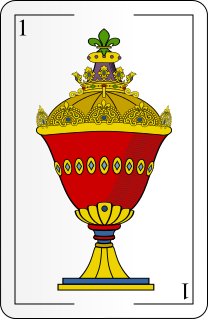
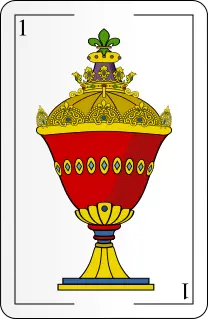
imagenes a webp

Changed region(s): [[0.1731, 0.0846, 0.8365, 0.8182], [0.2885, 0.79, 0.75, 0.931], [0.3173, 0.5925, 0.3462, 0.6207]]

diff --git a/src/services/cards.ts b/src/services/cards.ts
@@ -2,62 +2,62 @@ import { Card } from '../types'
 
 export const cards: Card[] = [
   // Espadas
-  { id: 1, number: 'As', url: 'as-de-espadas.png', played: false, suit: 'espadas' },
-  { id: 2, number: 'Dos', url: '2-de-espadas.png', played: false, suit: 'espadas' },
-  { id: 3, number: 'Tres', url: '3-de-espadas.png', played: false, suit: 'espadas' },
-  { id: 4, number: 'Cuatro', url: '4-de-espadas.png', played: false, suit: 'espadas' },
-  { id: 5, number: 'Cinco', url: '5-de-espadas.png', played: false, suit: 'espadas' },
-  { id: 6, number: 'Seis', url: '6-de-espadas.png', played: false, suit: 'espadas' },
-  { id: 7, number: 'Siete', url: '7-de-espadas.png', played: false, suit: 'espadas' },
-  { id: 8, number: 'Ocho', url: '8-de-espadas.png', played: false, suit: 'espadas' },
-  { id: 9, number: 'Nueve', url: '9-de-espadas.png', played: false, suit: 'espadas' },
-  { id: 10, number: 'Diez', url: '10-de-espadas.png', played: false, suit: 'espadas' },
-  // { id: 11, number: 'Caballo', url: '11-de-espadas.png', played: false },
-  { id: 12, number: 'Rey', url: '12-de-espadas.png', played: false, suit: 'espadas' },
+  { id: 1, number: 'As', url: 'as-de-espadas.webp', played: false, suit: 'espadas' },
+  { id: 2, number: 'Dos', url: '2-de-espadas.webp', played: false, suit: 'espadas' },
+  { id: 3, number: 'Tres', url: '3-de-espadas.webp', played: false, suit: 'espadas' },
+  { id: 4, number: 'Cuatro', url: '4-de-espadas.webp', played: false, suit: 'espadas' },
+  { id: 5, number: 'Cinco', url: '5-de-espadas.webp', played: false, suit: 'espadas' },
+  { id: 6, number: 'Seis', url: '6-de-espadas.webp', played: false, suit: 'espadas' },
+  { id: 7, number: 'Siete', url: '7-de-espadas.webp', played: false, suit: 'espadas' },
+  { id: 8, number: 'Ocho', url: '8-de-espadas.webp', played: false, suit: 'espadas' },
+  { id: 9, number: 'Nueve', url: '9-de-espadas.webp', played: false, suit: 'espadas' },
+  { id: 10, number: 'Diez', url: '10-de-espadas.webp', played: false, suit: 'espadas' },
+  // { id: 11, number: 'Caballo', url: '11-de-espadas.webp', played: false },
+  { id: 12, number: 'Rey', url: '12-de-espadas.webp', played: false, suit: 'espadas' },
 
   // Basto
-  { id: 13, number: 'As', url: 'as-de-basto.png', played: false, suit: 'bastos' },
-  { id: 14, number: 'Dos', url: '2-de-basto.png', played: false, suit: 'bastos' },
-  { id: 15, number: 'Tres', url: '3-de-basto.png', played: false, suit: 'bastos' },
-  { id: 16, number: 'Cuatro', url: '4-de-basto.png', played: false, suit: 'bastos' },
-  { id: 17, number: 'Cinco', url: '5-de-basto.png', played: false, suit: 'bastos' },
-  { id: 18, number: 'Seis', url: '6-de-basto.png', played: false, suit: 'bastos' },
-  { id: 19, number: 'Siete', url: '7-de-basto.png', played: false, suit: 'bastos' },
-  { id: 20, number: 'Ocho', url: '8-de-basto.png', played: false, suit: 'bastos' },
-  { id: 21, number: 'Nueve', url: '9-de-basto.png', played: false, suit: 'bastos' },
-  { id: 22, number: 'Diez', url: '10-de-basto.png', played: false, suit: 'bastos' },
-  // { id: 23, number: 'Caballo', url: '11-de-basto.png', played: false },
-  { id: 24, number: 'Rey', url: '12-de-basto.png', played: false, suit: 'bastos' },
+  { id: 13, number: 'As', url: 'as-de-basto.webp', played: false, suit: 'bastos' },
+  { id: 14, number: 'Dos', url: '2-de-basto.webp', played: false, suit: 'bastos' },
+  { id: 15, number: 'Tres', url: '3-de-basto.webp', played: false, suit: 'bastos' },
+  { id: 16, number: 'Cuatro', url: '4-de-basto.webp', played: false, suit: 'bastos' },
+  { id: 17, number: 'Cinco', url: '5-de-basto.webp', played: false, suit: 'bastos' },
+  { id: 18, number: 'Seis', url: '6-de-basto.webp', played: false, suit: 'bastos' },
+  { id: 19, number: 'Siete', url: '7-de-basto.webp', played: false, suit: 'bastos' },
+  { id: 20, number: 'Ocho', url: '8-de-basto.webp', played: false, suit: 'bastos' },
+  { id: 21, number: 'Nueve', url: '9-de-basto.webp', played: false, suit: 'bastos' },
+  { id: 22, number: 'Diez', url: '10-de-basto.webp', played: false, suit: 'bastos' },
+  // { id: 23, number: 'Caballo', url: '11-de-basto.webp', played: false },
+  { id: 24, number: 'Rey', url: '12-de-basto.webp', played: false, suit: 'bastos' },
 
   // Oro
-  { id: 25, number: 'As', url: 'as-de-oro.png', played: false, suit: 'oros' },
-  { id: 26, number: 'Dos', url: '2-de-oro.png', played: false, suit: 'oros' },
-  { id: 27, number: 'Tres', url: '3-de-oro.png', played: false, suit: 'oros' },
-  { id: 28, number: 'Cuatro', url: '4-de-oro.png', played: false, suit: 'oros' },
-  { id: 29, number: 'Cinco', url: '5-de-oro.png', played: false, suit: 'oros' },
-  { id: 30, number: 'Seis', url: '6-de-oro.png', played: false, suit: 'oros' },
-  { id: 31, number: 'Siete', url: '7-de-oro.png', played: false, suit: 'oros' },
-  { id: 32, number: 'Ocho', url: '8-de-oro.png', played: false, suit: 'oros' },
-  { id: 33, number: 'Nueve', url: '9-de-oro.png', played: false, suit: 'oros' },
-  { id: 34, number: 'Diez', url: '10-de-oro.png', played: false, suit: 'oros' },
-  // { id: 35, number: 'Caballo', url: '11-de-oro.png', played: false },
-  { id: 36, number: 'Rey', url: '12-de-oro.png', played: false, suit: 'oros' },
+  { id: 25, number: 'As', url: 'as-de-oro.webp', played: false, suit: 'oros' },
+  { id: 26, number: 'Dos', url: '2-de-oro.webp', played: false, suit: 'oros' },
+  { id: 27, number: 'Tres', url: '3-de-oro.webp', played: false, suit: 'oros' },
+  { id: 28, number: 'Cuatro', url: '4-de-oro.webp', played: false, suit: 'oros' },
+  { id: 29, number: 'Cinco', url: '5-de-oro.webp', played: false, suit: 'oros' },
+  { id: 30, number: 'Seis', url: '6-de-oro.webp', played: false, suit: 'oros' },
+  { id: 31, number: 'Siete', url: '7-de-oro.webp', played: false, suit: 'oros' },
+  { id: 32, number: 'Ocho', url: '8-de-oro.webp', played: false, suit: 'oros' },
+  { id: 33, number: 'Nueve', url: '9-de-oro.webp', played: false, suit: 'oros' },
+  { id: 34, number: 'Diez', url: '10-de-oro.webp', played: false, suit: 'oros' },
+  // { id: 35, number: 'Caballo', url: '11-de-oro.webp', played: false },
+  { id: 36, number: 'Rey', url: '12-de-oro.webp', played: false, suit: 'oros' },
 
   // Copas
-  { id: 37, number: 'As', url: 'as-de-copas.png', played: false, suit: 'copas' },
-  { id: 38, number: 'Dos', url: '2-de-copas.png', played: false, suit: 'copas' },
-  { id: 39, number: 'Tres', url: '3-de-copas.png', played: false, suit: 'copas' },
-  { id: 40, number: 'Cuatro', url: '4-de-copas.png', played: false, suit: 'copas' },
-  { id: 41, number: 'Cinco', url: '5-de-copas.png', played: false, suit: 'copas' },
-  { id: 42, number: 'Seis', url: '6-de-copas.png', played: false, suit: 'copas' },
-  { id: 43, number: 'Siete', url: '7-de-copas.png', played: false, suit: 'copas' },
-  { id: 44, number: 'Ocho', url: '8-de-copas.png', played: false, suit: 'copas' },
-  { id: 45, number: 'Nueve', url: '9-de-copas.png', played: false, suit: 'copas' },
-  { id: 46, number: 'Diez', url: '10-de-copas.png', played: false, suit: 'copas' },
-  // { id: 47, number: 'Caballo', url: '11-de-copas.png', played: false },
-  { id: 48, number: 'Rey', url: '12-de-copas.png', played: false, suit: 'copas' }
+  { id: 37, number: 'As', url: 'as-de-copas.webp', played: false, suit: 'copas' },
+  { id: 38, number: 'Dos', url: '2-de-copas.webp', played: false, suit: 'copas' },
+  { id: 39, number: 'Tres', url: '3-de-copas.webp', played: false, suit: 'copas' },
+  { id: 40, number: 'Cuatro', url: '4-de-copas.webp', played: false, suit: 'copas' },
+  { id: 41, number: 'Cinco', url: '5-de-copas.webp', played: false, suit: 'copas' },
+  { id: 42, number: 'Seis', url: '6-de-copas.webp', played: false, suit: 'copas' },
+  { id: 43, number: 'Siete', url: '7-de-copas.webp', played: false, suit: 'copas' },
+  { id: 44, number: 'Ocho', url: '8-de-copas.webp', played: false, suit: 'copas' },
+  { id: 45, number: 'Nueve', url: '9-de-copas.webp', played: false, suit: 'copas' },
+  { id: 46, number: 'Diez', url: '10-de-copas.webp', played: false, suit: 'copas' },
+  // { id: 47, number: 'Caballo', url: '11-de-copas.webp', played: false },
+  { id: 48, number: 'Rey', url: '12-de-copas.webp', played: false, suit: 'copas' }
 
   // Joker cards
-  // { id: 49, number: 'Comodin', url: 'comodin-rojo.png', played: false, suit: 'comodin' },
-  // { id: 50, number: 'Comodin', url: 'comodin-negro.png', played: false, suit: 'comodin' }
+  // { id: 49, number: 'Comodin', url: 'comodin-rojo.webp', played: false, suit: 'comodin' },
+  // { id: 50, number: 'Comodin', url: 'comodin-negro.webp', played: false, suit: 'comodin' }
 ]

diff --git a/src/components/Form.tsx b/src/components/Form.tsx
@@ -109,7 +109,7 @@ export const Form = ({ setSettings }: Props) => {
 
       <div className='input-name'>
         <label htmlFor='player 1'>
-          <img src='/src/assets/cards/11-de-espadas.png' alt='image of horse of swords' />
+          <img src='/src/assets/cards/11-de-espadas.webp' alt='image of horse of swords' />
         </label>
         <input
           type='text'
@@ -123,7 +123,7 @@ export const Form = ({ setSettings }: Props) => {
 
       <div className='input-name'>
         <label htmlFor='player 2'>
-          <img src='/src/assets/cards/11-de-bastos.png' alt='image of horse of clubs' />
+          <img src='/src/assets/cards/11-de-bastos.webp' alt='image of horse of clubs' />
         </label>
         <input
           type='text'
@@ -137,7 +137,7 @@ export const Form = ({ setSettings }: Props) => {
 
       <div className='input-name'>
         <label htmlFor='player 3'>
-          <img src='/src/assets/cards/11-de-copas.png' alt='image of horse of cups' />
+          <img src='/src/assets/cards/11-de-copas.webp' alt='image of horse of cups' />
         </label>
         <input
           type='text'
@@ -151,7 +151,7 @@ export const Form = ({ setSettings }: Props) => {
 
       <div className='input-name'>
         <label htmlFor='player 4'>
-          <img src='/src/assets/cards/11-de-oros.png' alt='image of horse of coins' />
+          <img src='/src/assets/cards/11-de-oros.webp' alt='image of horse of coins' />
         </label>
         <input
           type='text'

diff --git a/src/components/Game.tsx b/src/components/Game.tsx
@@ -112,8 +112,8 @@ export const Game = ({ settings, setSettings, setPlayGame }: Props) => {
     const copyOfDeck: Card[] = [...deck]
 
     // Agregar los dos jokers al principio porque no se usan
-    newArray.push({ id: 49, number: 'Comodin', url: 'empty.png', played: false, suit: 'comodin' },
-      { id: 50, number: 'Comodin', url: 'empty.png', played: false, suit: 'comodin' })
+    newArray.push({ id: 49, number: 'Comodin', url: 'empty.webp', played: false, suit: 'comodin' },
+      { id: 50, number: 'Comodin', url: 'empty.webp', played: false, suit: 'comodin' })
 
     while (newArray.length < settings.length) {
       const cardId = getRandomCard()
@@ -240,7 +240,7 @@ export const Game = ({ settings, setSettings, setPlayGame }: Props) => {
                 key={`${laneIndex}-${squareIndex}`}
                 isVisible={square}
                 isPlayed={false}
-                src={`11-de-${Object.keys(horsesPosition)[laneIndex]}.png`}
+                src={`11-de-${Object.keys(horsesPosition)[laneIndex]}.webp`}
               />
             ))}
           </section>

diff --git a/src/components/Square.tsx b/src/components/Square.tsx
@@ -15,7 +15,7 @@ export const Square = ({ isVisible, isPlayed, src }: Props) => {
         isVisible
           ? <img className={className} src={`/src/assets/cards/${src ?? ''}`} alt={src} />
           : isPlayed
-            ? <img className={className} src='/src/assets/cards/back.png' alt={src} />
+            ? <img className={className} src='/src/assets/cards/back.webp' alt={src} />
             : <div className={className} />
       }
 

diff --git a/src/components/winnerModal.css b/src/components/winnerModal.css
@@ -15,7 +15,7 @@
 
 .winner .text {
   background: #111;
-  height: 300px;
+  height: 340px;
   width: 320px;
   border: 2px solid #eee;
   border-radius: 10px;
@@ -28,8 +28,7 @@
 
 .winner .win {
   margin: 0 auto;
-  margin-top: 30px;
-  padding: 10px;
+  
   width: fit-content;
   border-radius: 10px;
   display: flex;

diff --git a/src/components/WinnerModal.tsx b/src/components/WinnerModal.tsx
@@ -14,7 +14,6 @@ export function WinnerModal ({ winner, bet, resetGame }: Props) {
   return (
     <section className='winner'>
       <div className='text'>
-
         <header className='win'>
           {winner.name}
         </header>
